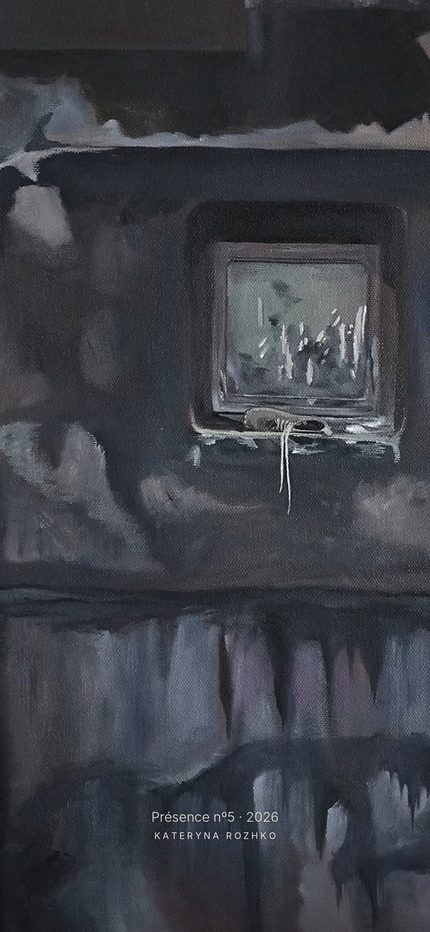
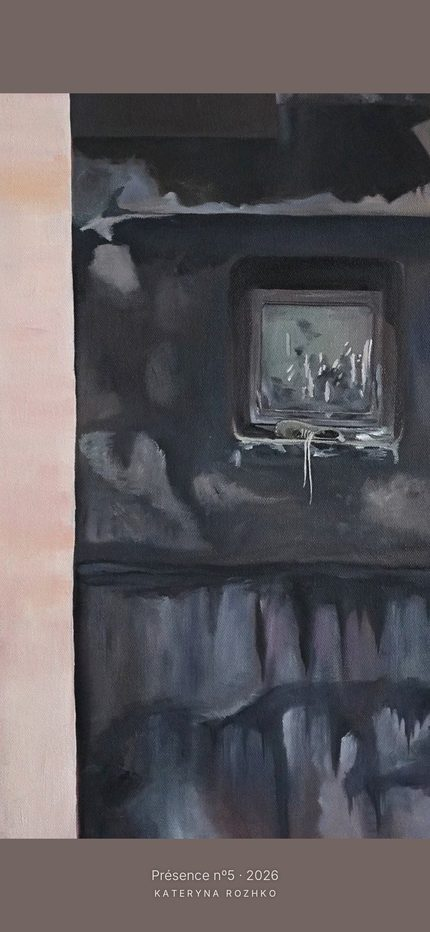
Fonds d'écran : nouvelle version (tableau plus large, bandes de couleur) + Sans titre
Claude-Session: https://claude.ai/code/session_01Fkt6G9uCoHm9n3vUhfUJYy

diff --git a/index.html b/index.html
@@ -678,7 +678,7 @@ html,body{overflow-x:clip}
   document.getElementById("pc-sec").addEventListener("click",function(e){ var b=e.target.closest(".pc-ask"); if(b){ shop.dispatchEvent(new CustomEvent("askfor",{detail:b.getAttribute("data-t")})); } });
   // wallpapers
   var feg=document.getElementById("fe-grid");
-  [["Présence nº1","presence-1"],["Présence nº2","presence-2"],["Présence nº3","presence-3"],["Présence nº4","presence-4"],["Présence nº5","presence-5"],["Koï","koi"],["Pool","pool"]].forEach(function(c){
+  [["Présence nº1","presence-1"],["Présence nº2","presence-2"],["Présence nº3","presence-3"],["Présence nº4","presence-4"],["Présence nº5","presence-5"],["Koï","koi"],["Pool","pool"],["Sans titre","sans-titre"]].forEach(function(c){
     var full="img/fe-"+c[1]+".jpg", i=add(full,{fr:"Fond d’écran — "+c[0],en:"Wallpaper — "+c[0]});
     feg.appendChild(el("figure",{},'<img src="img/fe-'+c[1]+'-t.jpg" alt="Fond d’écran '+c[0]+' — Kateryna Rozhko" loading="lazy" data-i="'+i+'" tabindex="0"><figcaption><span>'+c[0]+'</span><a class="dl" href="'+full+'" target="_blank" rel="noopener">'+bi("Enregistrer","Save")+'</a></figcaption>'));
   });
